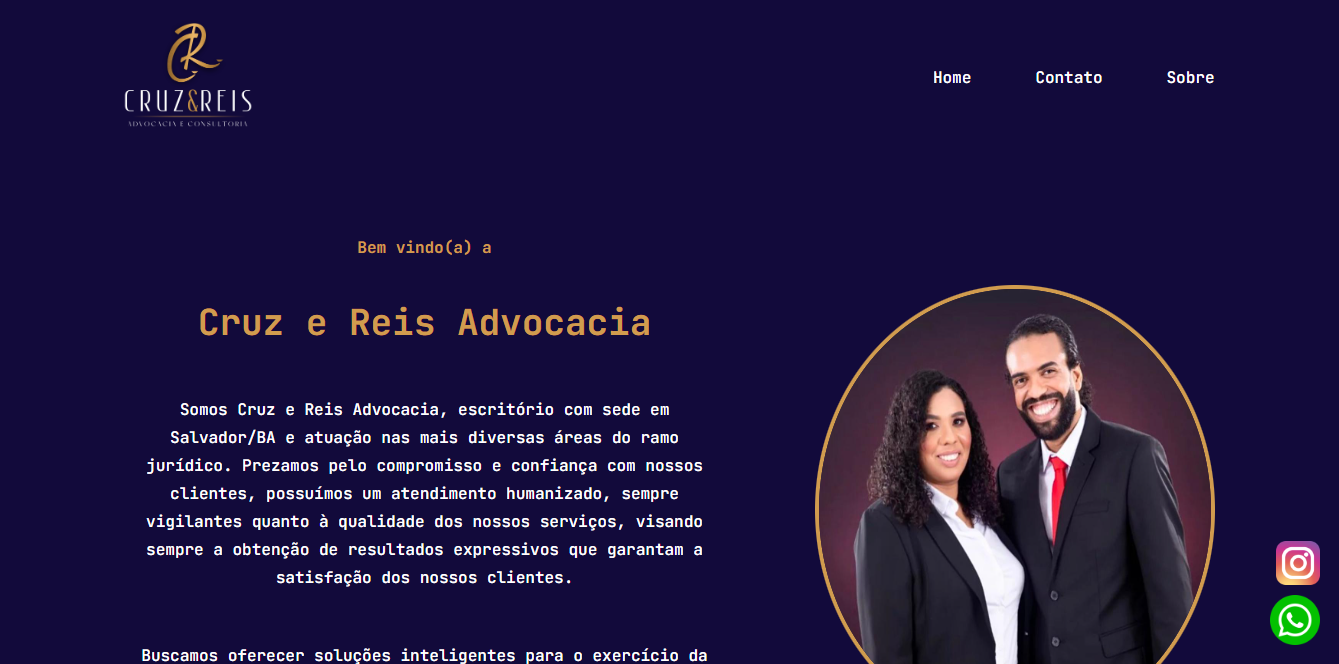
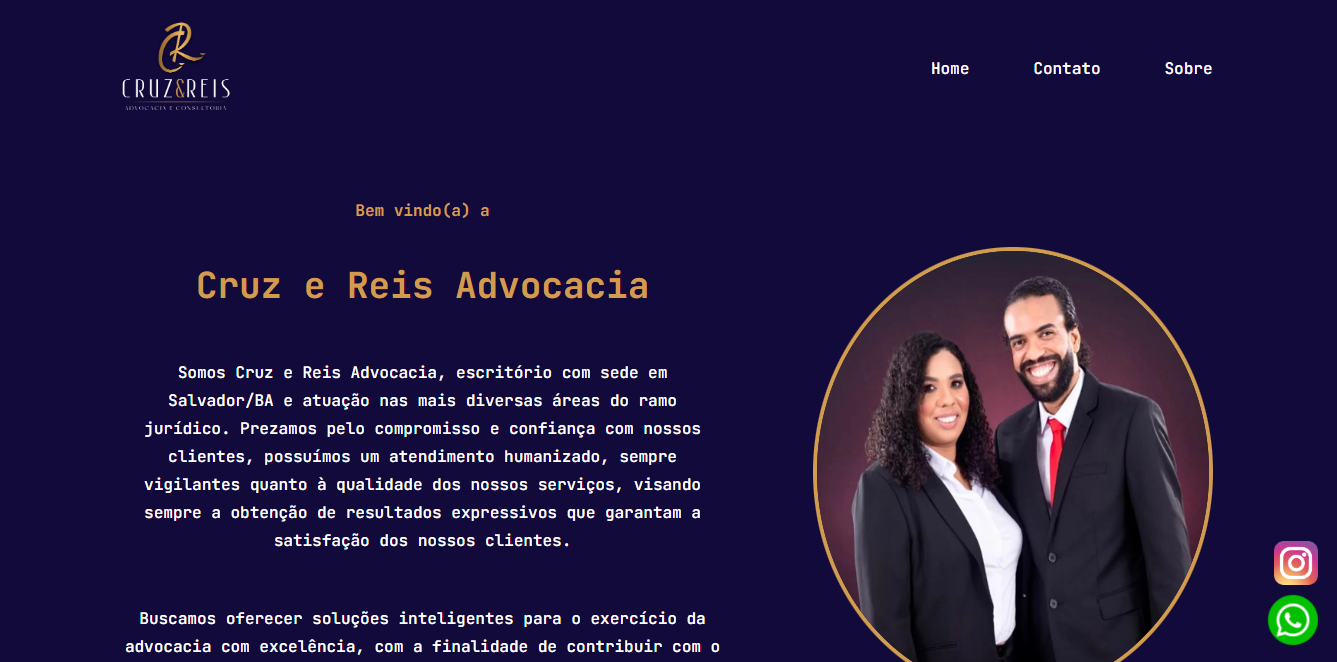
changed README pic

diff --git a/css/style.css b/css/style.css
@@ -28,7 +28,7 @@ nav {
     justify-content: space-between;
 }
 nav a img {
-    width: 130px;
+    width: 110px;
     animation: fromTop 1.2s;
 }
 nav ul {
@@ -64,7 +64,7 @@ main {
     display: flex;
     align-items: center;
     justify-content: space-between;
-    margin: 100px 0 180px 0 ;
+    margin: 80px 0 180px 0 ;
     gap: 77px;
 }
 main section {
